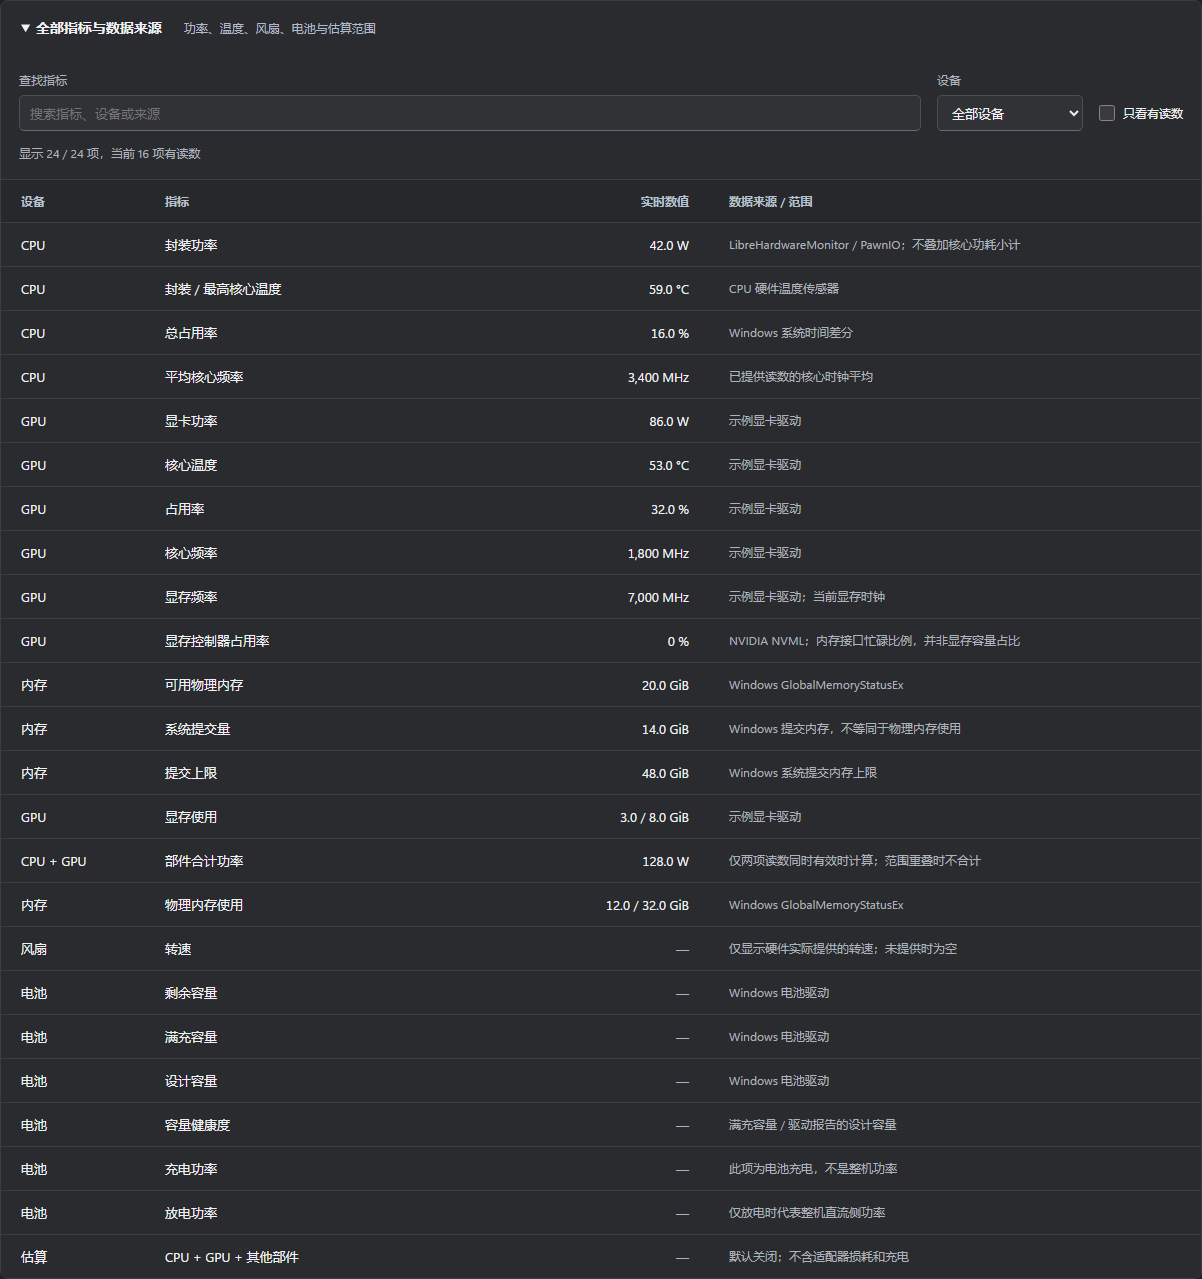
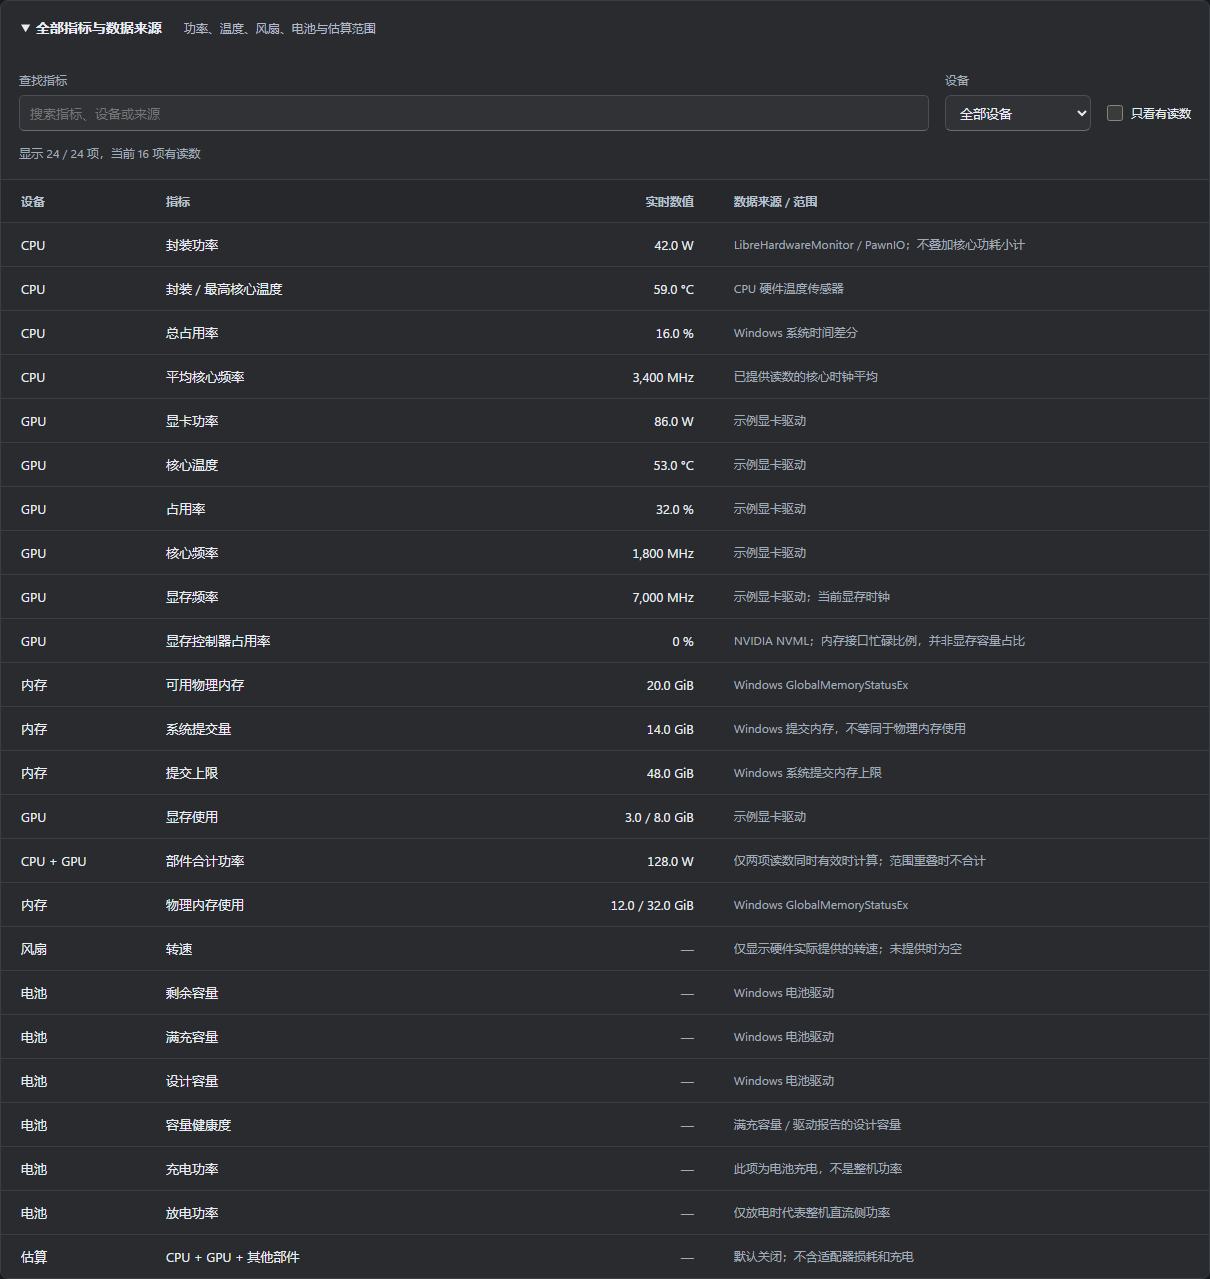
release: publish 0.5.1 collection continuity and monitoring refresh

diff --git a/README.en.md b/README.en.md
@@ -8,15 +8,15 @@ See how much power your PC is using, how warm your CPU and GPU are, and how much
 
 ## Download
 
-**Choose the Windows installer for everyday use.** One download automatically selects x64 or x86. The current public release is **0.5.0 preview**.
+**Choose the Windows installer for everyday use.** One download automatically selects x64 or x86. The current public release is **0.5.1 preview**.
 
 | Package | Download | How to use it |
 | --- | --- | --- |
-| **Windows installer · Recommended** | [Download Setup.exe](https://github.com/xiaopeng-he/ElectricTrace-PC-Power-Energy-Monitor/releases/download/v0.5.0/ElectricTrace-0.5.0-Windows-Setup.exe) | Install for your Windows account and launch from the shortcut |
-| Windows portable | [Download Portable.zip](https://github.com/xiaopeng-he/ElectricTrace-PC-Power-Energy-Monitor/releases/download/v0.5.0/ElectricTrace-0.5.0-Windows-Portable.zip) | Extract the complete archive into a writable folder, then run `电迹.exe` |
-| Checksums | [SHA256SUMS.txt](https://github.com/xiaopeng-he/ElectricTrace-PC-Power-Energy-Monitor/releases/download/v0.5.0/SHA256SUMS.txt) | Check download integrity |
+| **Windows installer · Recommended** | [Download Setup.exe](https://github.com/xiaopeng-he/ElectricTrace-PC-Power-Energy-Monitor/releases/download/v0.5.1/ElectricTrace-0.5.1-Windows-Setup.exe) | Install for your Windows account and launch from the shortcut |
+| Windows portable | [Download Portable.zip](https://github.com/xiaopeng-he/ElectricTrace-PC-Power-Energy-Monitor/releases/download/v0.5.1/ElectricTrace-0.5.1-Windows-Portable.zip) | Extract the complete archive into a writable folder, then run `电迹.exe` |
+| Checksums | [SHA256SUMS.txt](https://github.com/xiaopeng-he/ElectricTrace-PC-Power-Energy-Monitor/releases/download/v0.5.1/SHA256SUMS.txt) | Check download integrity |
 
-[Release page and notes](https://github.com/xiaopeng-he/ElectricTrace-PC-Power-Energy-Monitor/releases/tag/v0.5.0)
+[Release page and notes](https://github.com/xiaopeng-he/ElectricTrace-PC-Power-Energy-Monitor/releases/tag/v0.5.1)
 
 Targets Windows 10 version 1709 or later and Windows 11. Requires [.NET Framework 4.8+](https://dotnet.microsoft.com/download/dotnet-framework/net48); the full interface requires [WebView2 Runtime 120+](https://developer.microsoft.com/microsoft-edge/webview2/#download-section). A basic native interface is available without WebView2. See [compatibility](docs/COMPATIBILITY.md) for architecture and hardware coverage.
 

diff --git a/README.md b/README.md
@@ -10,15 +10,15 @@
 
 ## 下载安装
 
-**大多数用户下载 Windows 安装版即可。** 安装器自动选择 x64 / x86，无需分别找包。当前公开版本为 **0.5.0 预览版**。
+**大多数用户下载 Windows 安装版即可。** 安装器自动选择 x64 / x86，无需分别找包。当前公开版本为 **0.5.1 预览版**。
 
 | 版本 | 下载 | 使用方式 |
 | --- | --- | --- |
-| **Windows 安装版 · 推荐** | [下载安装程序](https://github.com/xiaopeng-he/ElectricTrace-PC-Power-Energy-Monitor/releases/download/v0.5.0/ElectricTrace-0.5.0-Windows-Setup.exe) | 按当前用户安装，通过快捷方式启动 |
-| Windows 便携版 | [下载便携 ZIP](https://github.com/xiaopeng-he/ElectricTrace-PC-Power-Energy-Monitor/releases/download/v0.5.0/ElectricTrace-0.5.0-Windows-Portable.zip) | 完整解压到可写目录，运行 `电迹.exe`，数据随文件夹保存 |
-| 下载校验 | [SHA256SUMS.txt](https://github.com/xiaopeng-he/ElectricTrace-PC-Power-Energy-Monitor/releases/download/v0.5.0/SHA256SUMS.txt) | 核对文件是否下载完整 |
+| **Windows 安装版 · 推荐** | [下载安装程序](https://github.com/xiaopeng-he/ElectricTrace-PC-Power-Energy-Monitor/releases/download/v0.5.1/ElectricTrace-0.5.1-Windows-Setup.exe) | 按当前用户安装，通过快捷方式启动 |
+| Windows 便携版 | [下载便携 ZIP](https://github.com/xiaopeng-he/ElectricTrace-PC-Power-Energy-Monitor/releases/download/v0.5.1/ElectricTrace-0.5.1-Windows-Portable.zip) | 完整解压到可写目录，运行 `电迹.exe`，数据随文件夹保存 |
+| 下载校验 | [SHA256SUMS.txt](https://github.com/xiaopeng-he/ElectricTrace-PC-Power-Energy-Monitor/releases/download/v0.5.1/SHA256SUMS.txt) | 核对文件是否下载完整 |
 
-[查看发布页与版本说明](https://github.com/xiaopeng-he/ElectricTrace-PC-Power-Energy-Monitor/releases/tag/v0.5.0)
+[查看发布页与版本说明](https://github.com/xiaopeng-he/ElectricTrace-PC-Power-Energy-Monitor/releases/tag/v0.5.1)
 
 面向 Windows 10 1709 及以上版本、Windows 11；完整界面需要 [.NET Framework 4.8+](https://dotnet.microsoft.com/download/dotnet-framework/net48) 和 [WebView2 Runtime 120+](https://developer.microsoft.com/microsoft-edge/webview2/#download-section)。缺少 WebView2 时，可先使用基本界面。系统、架构及硬件读数范围见[兼容说明](docs/COMPATIBILITY.md)。
 

diff --git a/CHANGELOG.md b/CHANGELOG.md
@@ -1,5 +1,16 @@
 # 更新记录
 
+## 0.5.1 · 采集连续性与界面更新
+
+- 支持的 Intel CPU 使用独立通道读取封装功率和温度，逐核心详情在后台刷新，避免较慢的核心读取阻塞主要曲线。
+- 核心详情保留自己的更新时间；延迟状态按设备显示，及时区分当前读数与等待更新的项目。
+- 重排实时监控页：紧凑的 CPU / GPU 读数、更多曲线空间、更清晰的来源与轻量统计。
+- 曲线采用轻度视觉平滑，去掉多曲线填充产生的竖纹；悬停数值、CSV 和电量统计继续使用原始读数，历史空档保留。
+- 基本界面的历史查询与 CSV 导出各用独立读取连接，避免长操作占住实时摘要的读取连接。
+- 更新中英文使用文档、下载指引和示例截图。
+
+本机 Windows 11 / Intel CPU / NVIDIA GPU 的五分钟实测中，144 条记录的 CPU、GPU 和合计均有读数；原历史逐条核对保留。兼容范围见 [COMPATIBILITY](docs/COMPATIBILITY.md)。
+
 ## 0.5.0 · 预览版
 
 - 延续石墨界面，调整设备读数的字号和间距。

diff --git a/NOTICE.md b/NOTICE.md
@@ -4,4 +4,4 @@
 
 第三方组件继续适用各自许可证；许可全文及对应源码信息位于安装包 `licenses`，主要来源见 [THIRD-PARTY.md](THIRD-PARTY.md)。自有程序集的封装与名称混淆不改变第三方组件的许可。
 
-当前发布为预览版本，商业授权及支持条款尚待另行公布。不要将预览、局部测试或文件校验误读为计量认证、全平台认证或可信代码签名。
+当前发布为预览版本，商业授权及支持条款将另行公布。
